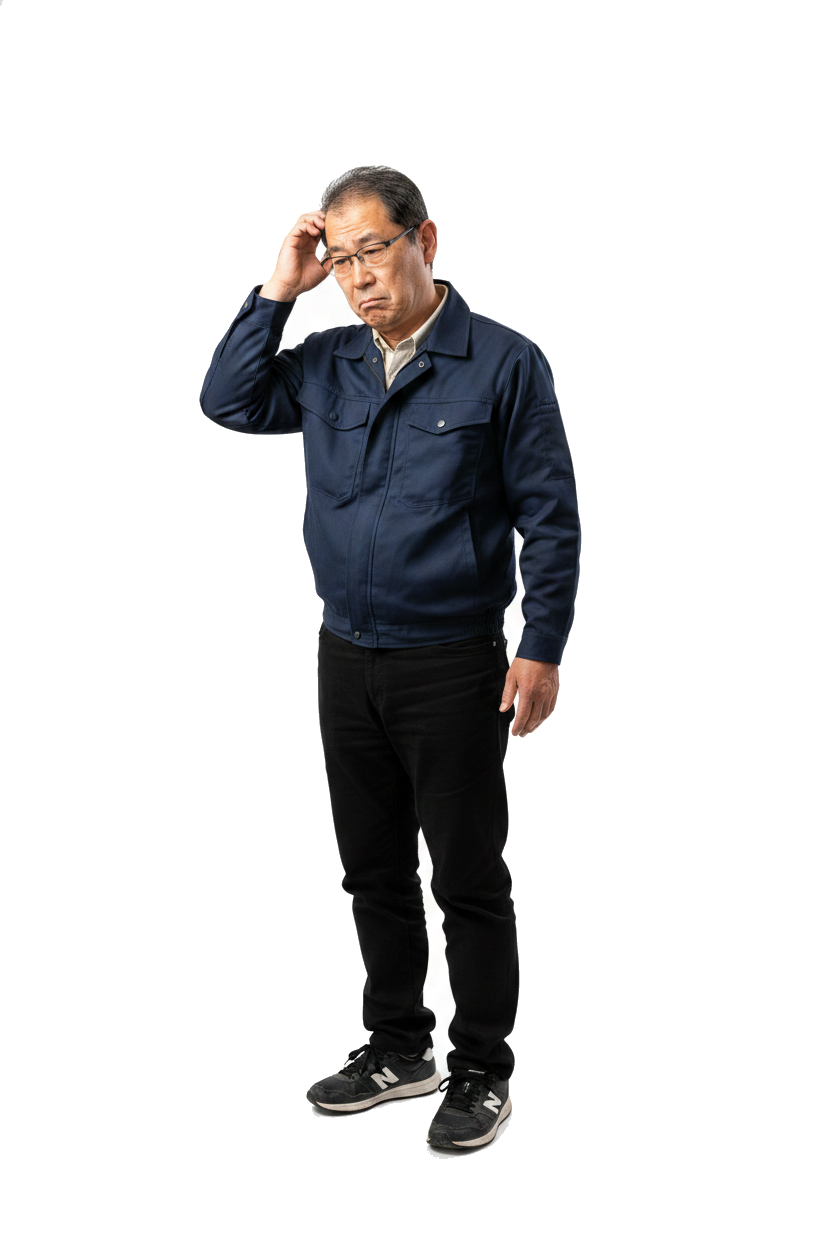
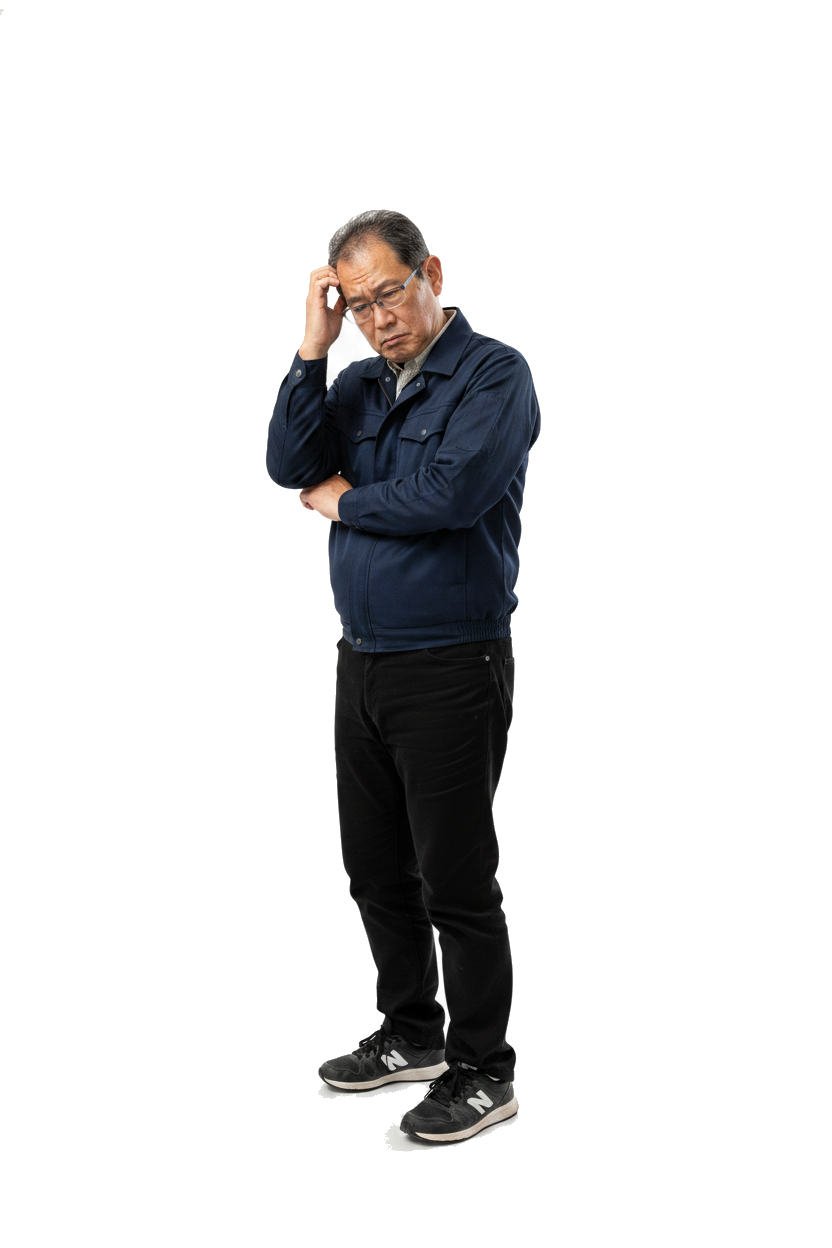
fix(plaza): 悩み栄太郎を満腹版を追加参照に再生成 (本人に似せる)
- generate-eitaro-worried.js を 2参照画像方式に変更
  eitaro_ref.jpg (服装) + eitaro_stuffed.png (顔のグラウンドトゥルース) を併用
- temperature 0.85 → 0.55 でブレ低減
- 出力差し替え + ?v=2 でキャッシュバスター更新

diff --git a/scripts/generate-eitaro-worried.js b/scripts/generate-eitaro-worried.js
@@ -8,9 +8,11 @@ require('dotenv').config();
 const fs = require('fs');
 const path = require('path');
 
-const REF_FILE = path.join(__dirname, '..', 'public', 'assets', 'eitaro_ref.jpg');
+const REF_FILE  = path.join(__dirname, '..', 'public', 'assets', 'eitaro_ref.jpg');
+// 既存の満腹版は顔がよく出ているので識別アンカーとして併用
+const REF_FILE2 = path.join(__dirname, '..', 'public', 'assets', 'eitaro_stuffed.png');
 
-const PROMPT = `Photorealistic full-body image of THE EXACT SAME middle-aged Japanese man shown in the attached reference photo. KEEP HIS FACE, HAIR, BUILD, AGE 100% IDENTICAL to the reference - same person, just shown in a different pose and without the mask. (You may remove the white mask so his full face is visible, but keep all his facial features identical to the reference.)
+const PROMPT = `Photorealistic full-body image of THE EXACT SAME middle-aged Japanese man shown in BOTH attached reference photos. The SECOND reference (eitaro_stuffed.png) shows his face most clearly — TREAT IT AS THE GROUND TRUTH FOR HIS FACE, HAIR, GLASSES (if any), SKIN TONE, AGE, AND BUILD. The first reference (eitaro_ref.jpg) shows him wearing a mask but in his actual workplace outfit. Generate the SAME PERSON shown in both photos — match the face from the second reference EXACTLY.
 
 He is "栄太郎 (Eitaro)", a friendly Japanese senior employee. He is wearing the SAME outfit as in the reference: dark navy blue work jacket (作業ジャケット) over a polo or shirt, with black work pants, and dark sneakers.
 
@@ -48,9 +50,12 @@ ABSOLUTELY DO NOT:
   const apiKey = process.env.GEMINI_API_KEY;
   if (!apiKey) { console.error('GEMINI_API_KEY not set'); process.exit(1); }
   if (!fs.existsSync(REF_FILE)) { console.error('Reference image not found:', REF_FILE); process.exit(1); }
+  if (!fs.existsSync(REF_FILE2)) { console.error('Reference image not found:', REF_FILE2); process.exit(1); }
 
   const refMime = REF_FILE.toLowerCase().endsWith('.png') ? 'image/png' : 'image/jpeg';
   const refB64 = fs.readFileSync(REF_FILE).toString('base64');
+  const ref2Mime = REF_FILE2.toLowerCase().endsWith('.png') ? 'image/png' : 'image/jpeg';
+  const ref2B64 = fs.readFileSync(REF_FILE2).toString('base64');
   const outFile = path.join(__dirname, '..', 'public', 'assets', 'eitaro_worried.png');
   try {
     if (fs.existsSync(outFile)) {
@@ -65,15 +70,16 @@ ABSOLUTELY DO NOT:
       parts: [
         { text: PROMPT },
         { inlineData: { mimeType: refMime, data: refB64 } },
+        { inlineData: { mimeType: ref2Mime, data: ref2B64 } },
       ]
     }],
     generationConfig: {
       responseModalities: ['IMAGE', 'TEXT'],
-      temperature: 0.85,
+      temperature: 0.55,
       imageConfig: { aspectRatio: '2:3' },
     },
   };
-  console.log('Calling Gemini with reference image...');
+  console.log('Calling Gemini with 2 reference images (masked + stuffed)...');
   const r = await fetch('https://generativelanguage.googleapis.com/v1beta/models/gemini-2.5-flash-image:generateContent?key=' + apiKey, {
     method: 'POST',
     headers: { 'Content-Type': 'application/json' },

diff --git a/public/plaza.html b/public/plaza.html
@@ -775,7 +775,7 @@ function setTab(t) {
 // タブ別の栄太郎ヒーロー設定
 const EITARO_PRESETS = {
   '食事':    { img: '/assets/eitaro_stuffed.png?v=2', alt: '栄太郎(満腹)',     text: '食べ過ぎたぁ〜',   sub: 'ごちそうさまでした…' },
-  '相談':    { img: '/assets/eitaro_worried.png?v=1', alt: '栄太郎(悩み中)',   text: 'うーん…どうしよう', sub: '誰かに相談してみよう' },
+  '相談':    { img: '/assets/eitaro_worried.png?v=2', alt: '栄太郎(悩み中)',   text: 'うーん…どうしよう', sub: '誰かに相談してみよう' },
   '雑談':    { img: '/assets/eitaro_stuffed.png?v=2', alt: '栄太郎',            text: 'おーい、みんな〜',  sub: 'なんか話そう' },
   '健康Tips': { img: '/assets/eitaro_stuffed.png?v=2', alt: '栄太郎',           text: 'なるほど〜',        sub: '勉強になるなぁ' },
   'all':     { img: '/assets/eitaro_stuffed.png?v=2', alt: '栄太郎(満腹)',     text: '食べ過ぎたぁ〜',   sub: 'ごちそうさまでした…' },

diff --git a/server/index.js b/server/index.js
@@ -296,7 +296,7 @@ const MINIMAL_MODE = process.env.MINIMAL_MODE === '1';
 
 // アプリ全体のバージョン。デプロイ時にbumpして、クライアントは値が変わったら自動リロード
 // (古い HTML を使い続けるメンバー対策)
-const APP_VERSION = "2026-05-21-eitaro-worried";
+const APP_VERSION = "2026-05-21-eitaro-worried-v2";
 app.get('/api/version', (req, res) => {
   res.set('Cache-Control', 'no-store');
   res.json({ success: true, version: APP_VERSION });
